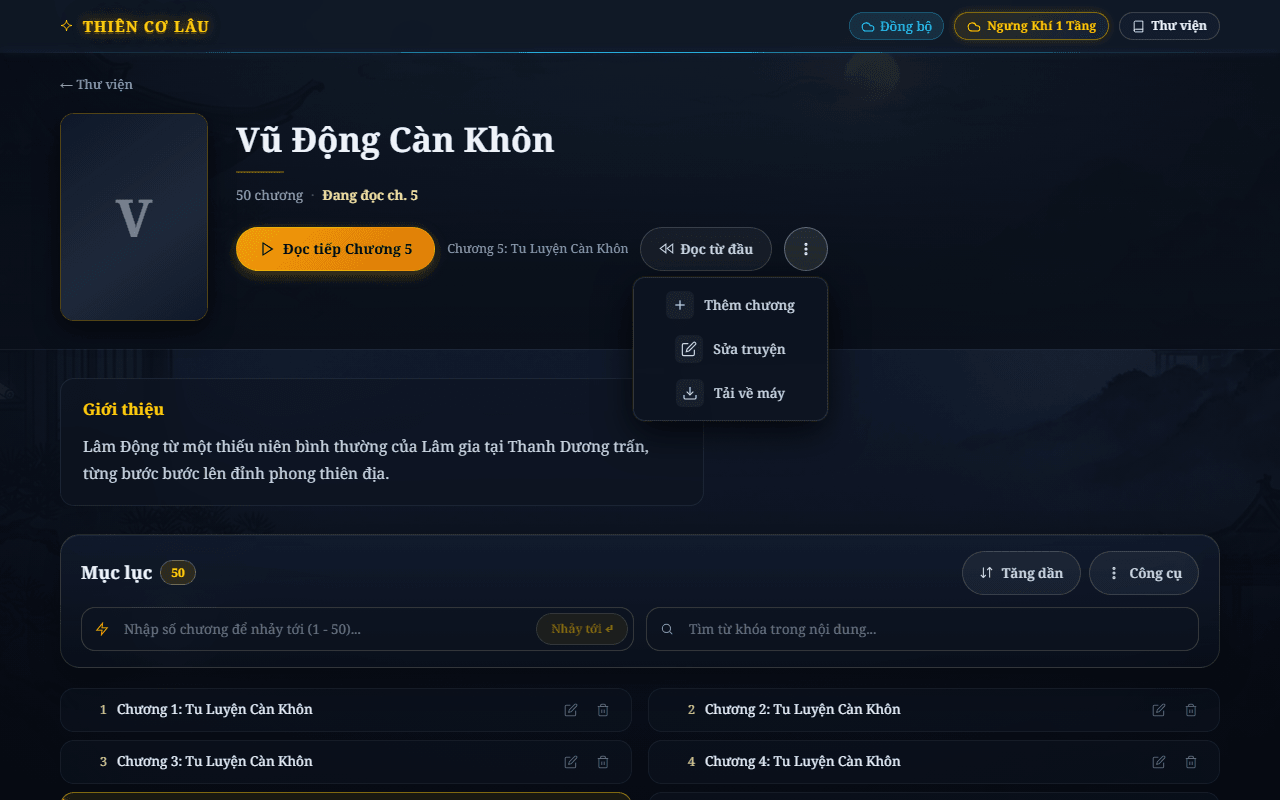
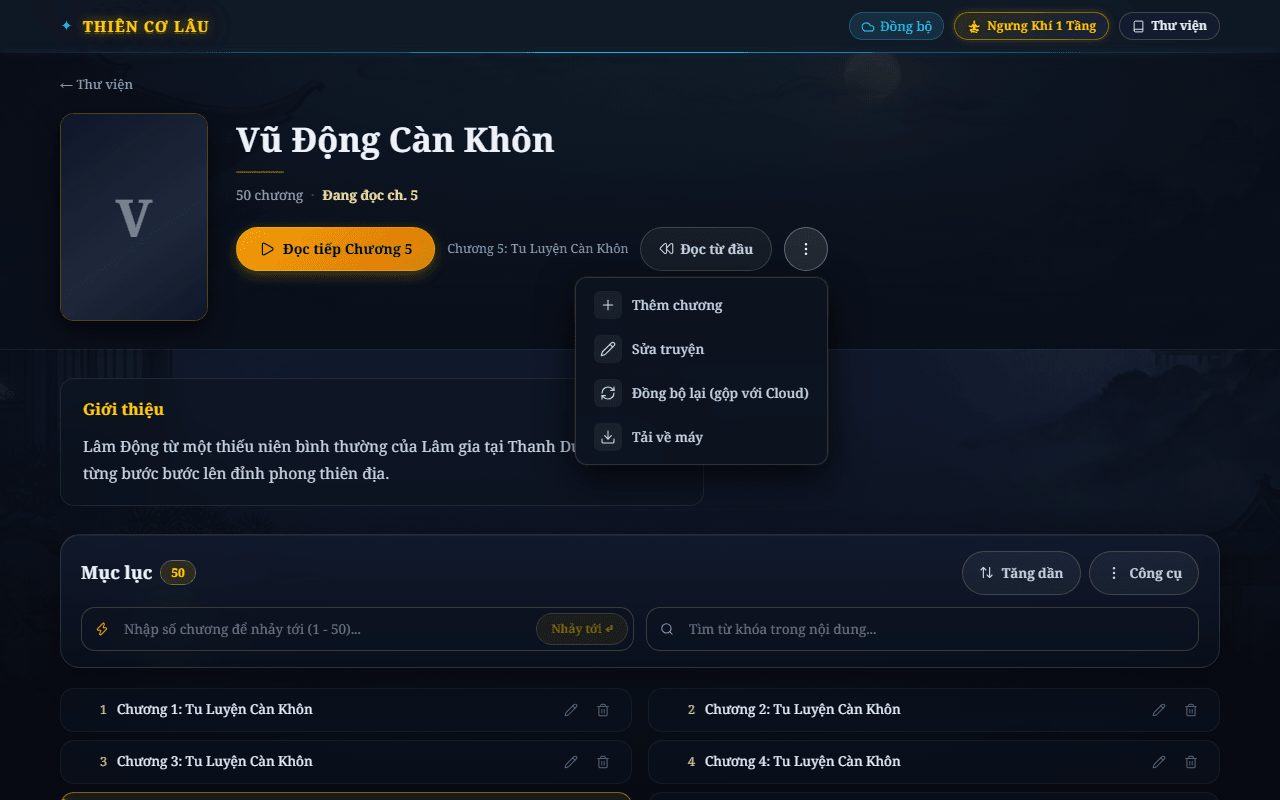
fix(ui): left-align popover menu rows and fix global button centering leak

Changed region(s): [[0.4688, 0.375, 0.625, 0.5], [0.4375, 0.5312, 0.5625, 0.5938], [0.1875, 0.2812, 0.2188, 0.3125]]

diff --git a/src/pages/NovelDetailPage.module.css b/src/pages/NovelDetailPage.module.css
@@ -1128,10 +1128,11 @@
 .sheetActionRow {
   display: flex;
   align-items: center;
+  justify-content: flex-start;
   gap: 14px;
   width: 100%;
   height: 52px;
-  padding: 0 12px;
+  padding: 0 14px;
   border-radius: 12px;
   border: none;
   background: transparent;
@@ -1142,6 +1143,11 @@
   text-align: left;
   transition: background 0.15s ease, color 0.15s ease;
   box-sizing: border-box;
+}
+
+.sheetActionRow > span {
+  flex: 1;
+  text-align: left;
 }
 
 .sheetActionRow:hover:not(:disabled) {

diff --git a/src/components/ui/NovelCard.module.css b/src/components/ui/NovelCard.module.css
@@ -414,10 +414,11 @@
 .actionRow {
   display: flex;
   align-items: center;
+  justify-content: flex-start;
   gap: 14px;
   width: 100%;
   height: 52px;
-  padding: 0 12px;
+  padding: 0 14px;
   border-radius: 12px;
   border: none;
   background: transparent;
@@ -428,6 +429,11 @@
   text-align: left;
   transition: background 0.15s ease, color 0.15s ease;
   box-sizing: border-box;
+}
+
+.actionRow > span {
+  flex: 1;
+  text-align: left;
 }
 
 .actionRow:hover {

diff --git a/src/components/ui/PopoverMenu.module.css b/src/components/ui/PopoverMenu.module.css
@@ -8,12 +8,18 @@
   border-radius: 12px;
   box-shadow: 0 12px 36px rgba(0, 0, 0, 0.75), 0 0 0 1px rgba(255, 204, 0, 0.08);
   padding: 6px;
-  min-width: 195px;
+  min-width: 252px;
   display: flex;
   flex-direction: column;
   gap: 2px;
   animation: popoverFadeIn 0.15s cubic-bezier(0.16, 1, 0.3, 1);
   box-sizing: border-box;
+}
+
+.popoverMenu button,
+.popoverMenu [role="menuitem"] {
+  justify-content: flex-start;
+  text-align: left;
 }
 
 .flipped {

diff --git a/src/styles/globals.css b/src/styles/globals.css
@@ -201,6 +201,14 @@ button {
   touch-action: manipulation;
 }
 
+/* Chống rò rỉ căn giữa cho các nút dạng menuitem / row trong popover và sheet */
+button[role="menuitem"],
+.menu-row,
+[data-menu-item] {
+  justify-content: flex-start !important;
+  text-align: left !important;
+}
+
 .btn-primary {
   background: linear-gradient(135deg, var(--accent-cyan), #1aa8d3);
   color: #070b12;
